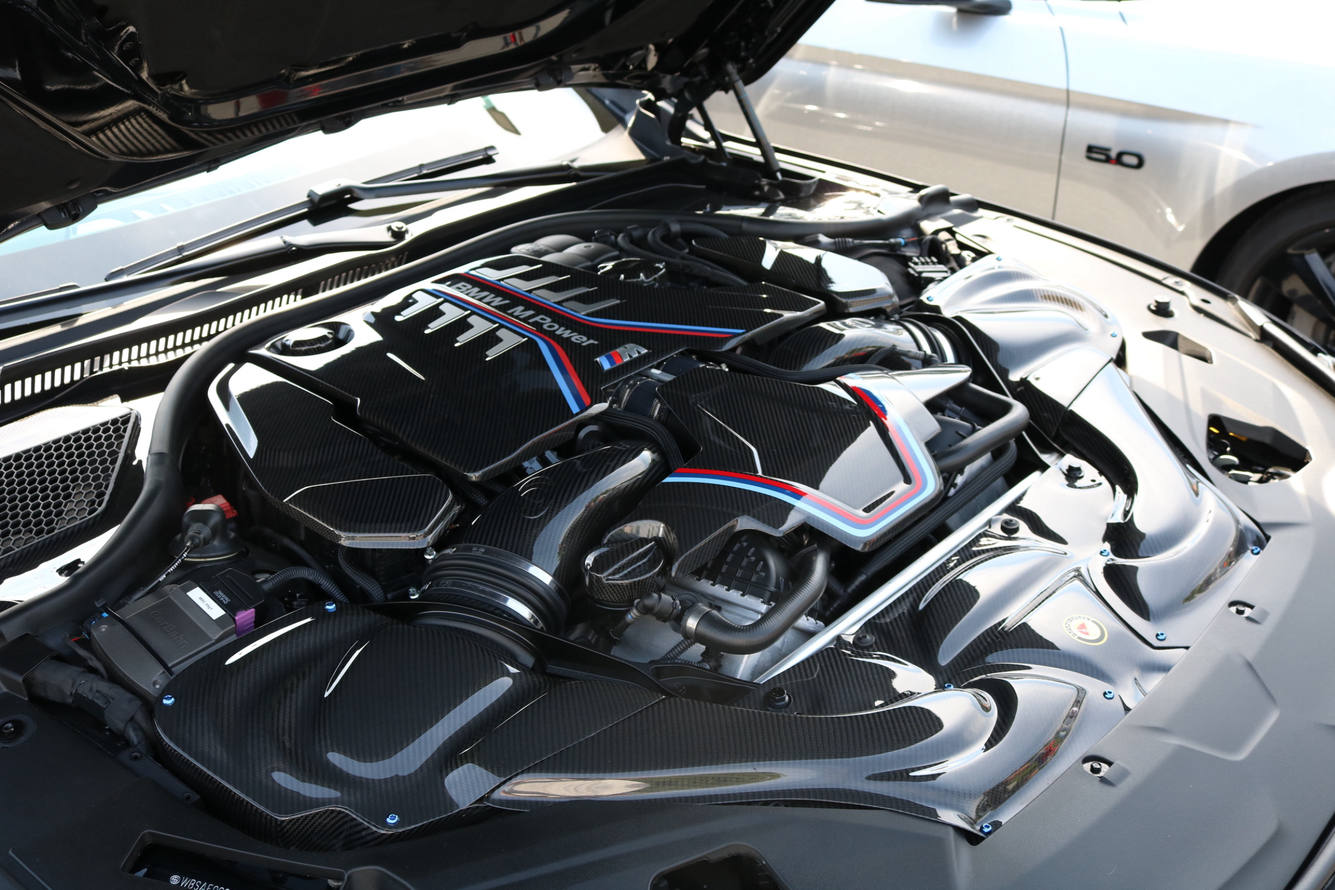
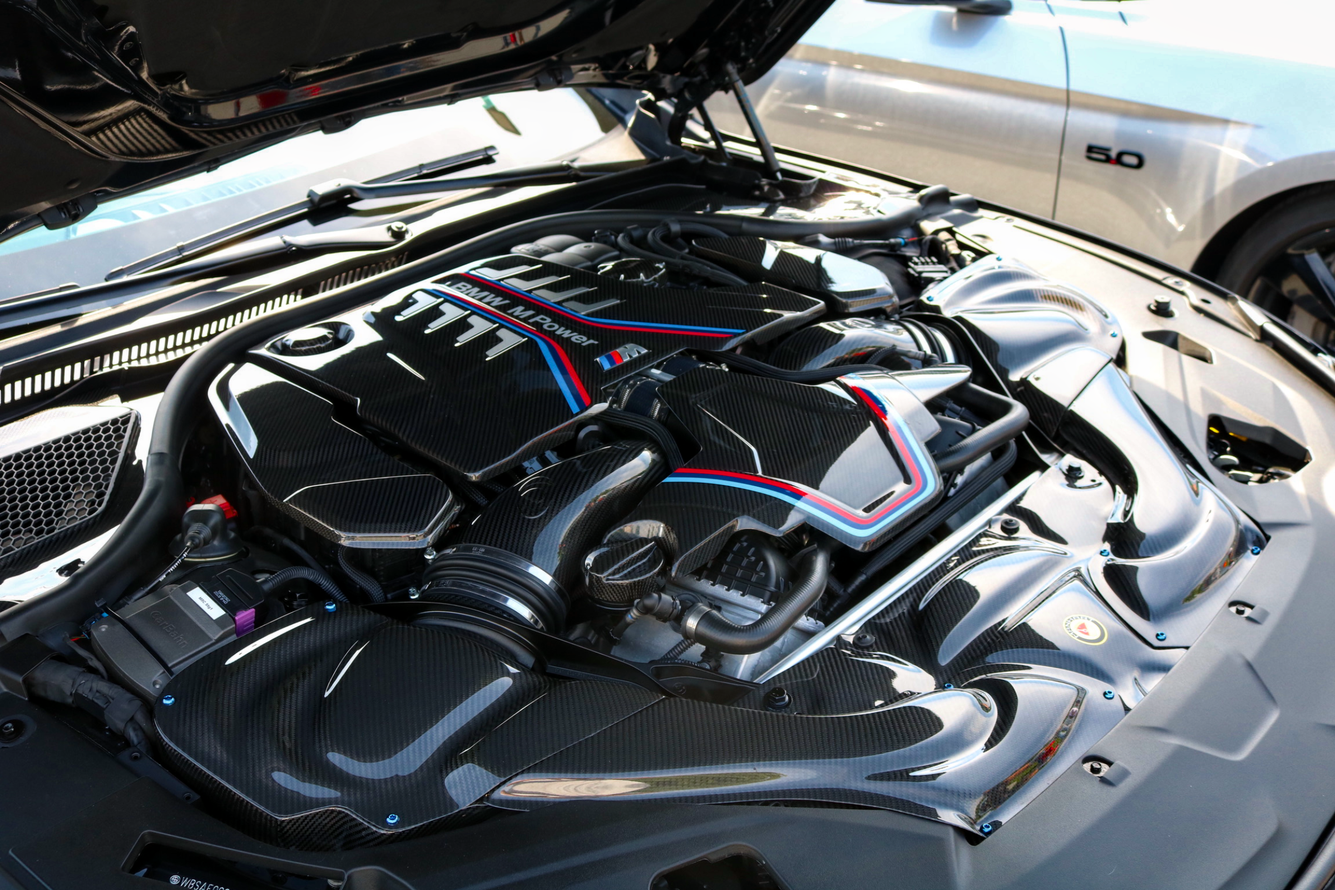
Big changes here

diff --git a/style.css b/style.css
@@ -17,7 +17,65 @@ header {
 /* ---------- HERO ---------- */
 
 .hero {
+    position: relative;
     height: 81vh;
+    max-width: 1400px;
+    margin: 0 auto;
+    overflow: hidden;
+}
+
+.hero img {
+    width: 100%;
+    height: 100%;
+    object-fit: cover;
+    display: block;
+    opacity: 0.75;
+}
+
+.hero::after {
+    content: "";
+    position: absolute;
+    inset: 0;
+
+    background: linear-gradient(
+        to bottom,
+        transparent 60%,
+        #111 100%
+    );
+}
+
+.hero-text {
+    position: absolute;
+    z-index: 2;
+
+    left: 50%;
+    top: 50%;
+    transform: translate(-50%, -50%);
+
+    text-align: center;
+    color: white;
+}
+
+.hero-text h1 {
+    margin: 0;
+
+    font-family: Arial, Helvetica, sans-serif;
+    font-size: 42px;
+    font-weight: 400;
+
+    letter-spacing: 8px;
+}
+
+.hero-text p {
+    margin-top: 14px;
+
+    font-family: Arial, Helvetica, sans-serif;
+    font-size: 11px;
+    font-weight: 400;
+
+    letter-spacing: 5px;
+
+    color: #ccc;
 }
 
 footer {
@@ -213,7 +271,7 @@ footer {
 
 .contact-photo {
     position: relative;
-    width: 108%;
+    width: 107%;
 }
 
 .contact-photo img {
@@ -270,7 +328,7 @@ footer {
 
 .contact-links {
 
-    font-family: "Arial", sans-serif;
+    font-family: "Raleway", sans-serif;
     font-size: 18px;
     font-weight: 400;
     letter-spacing: 0.5px;
@@ -288,7 +346,7 @@ footer {
     color: #aaa;
     text-decoration: none;
 
-    font-family: Arial, sans-serif;
+    font-family: "Raleway", sans-serif;
     font-size: 18px;
 
     transition:

diff --git a/index.html b/index.html
@@ -27,6 +27,12 @@
 </nav>
 
  <section class="hero">
+    <img src="images/IMG_1928.webp" alt="Featured photograph">
+
+    <div class="hero-text">
+        <h1>A SELECTION OF</h1>
+        <p>MY BEST SHOTS</p>
+    </div>
 
 </section>
 
